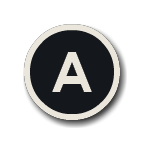
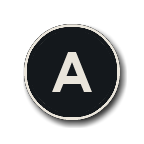
F5: Thinner glyph rim, 0.7 size, prefixes placed by drawn bounds
In game the rim looked thick next to Valheim's, hover-hint glyphs a little
big, and prefix glyphs (which hang below the text line) ran into the slots.
The script keeps Kenney's letters and pressed arms but only the outer 3 px
of its 6 px rim; prefixes are now placed by what TMP draws.

diff --git a/ControllerGlyphFixer/PrefixLabels.cs b/ControllerGlyphFixer/PrefixLabels.cs
@@ -147,11 +147,9 @@ namespace ControllerGlyphFixer
                 // The backing's left edge is flush with the first slot; padding goes inside, around the
                 // text and line (padding outside showed on one side when edges differed by a unit)
                 TextMeshProUGUI text = CreateText(container, style, prefix.Text, color);
-                Vector2 size = text.GetPreferredValues(prefix.Text);
                 float textLeft = bounds.xMin + BackingPadding;
                 float y = side == PrefixSide.Above ? bounds.yMax + AboveGap : bounds.yMin - Gap;
-                Place(text.rectTransform, new Vector2(0f, side == PrefixSide.Above ? 0f : 1f), size,
-                    new Vector2(textLeft, y));
+                Vector2 size = PlaceByDrawnBounds(text, prefix.Text, side, new Vector2(textLeft, y));
                 float textBottom = side == PrefixSide.Above ? y : y - size.y;
                 float backingRight = textLeft + size.x + BackingPadding;
 
@@ -375,6 +373,36 @@ namespace ControllerGlyphFixer
             image.color = color;
             image.raycastTarget = false;
             return image;
+        }
+
+        /// <summary>
+        /// Places a prefix so what TMP draws (not its line box) starts at the corner: its left edge at
+        /// the corner's x, and its bottom (above the slots) or top (below them) at the corner's y.
+        /// </summary>
+        /// <param name="text">The prefix text, already created.</param>
+        /// <param name="value">Its text, for measuring.</param>
+        /// <param name="side">Above or below the slots.</param>
+        /// <param name="corner">Bottom-left (above) or top-left (below) of the drawn prefix, in the parent's space.</param>
+        /// <returns>The drawn size; the line-box size when nothing is drawn.</returns>
+        // Sprites hang below the text line (Valheim's glyphs do too); placed by the line box, the
+        // controller glyph prefixes ran into the slots (in game 2026-11-08)
+        private Vector2 PlaceByDrawnBounds(TextMeshProUGUI text, string value, PrefixSide side, Vector2 corner)
+        {
+            Vector2 size = text.GetPreferredValues(value);
+            Vector2 pivot = new (0f, side == PrefixSide.Above ? 0f : 1f);
+            Place(text.rectTransform, pivot, size, corner);
+
+            text.ForceMeshUpdate();
+            Bounds drawn = text.textBounds;
+            if (drawn.size.x <= 0f || drawn.size.y <= 0f)
+            {
+                return size;
+            }
+
+            // textBounds is relative to the pivot, which sits at the corner
+            float edgeY = side == PrefixSide.Above ? drawn.min.y : drawn.max.y;
+            text.rectTransform.localPosition = new Vector3(corner.x - drawn.min.x, corner.y - edgeY, 0f);
+            return drawn.size;
         }
 
         /// <summary>

diff --git a/ControllerGlyphFixer/ModSpriteAsset.cs b/ControllerGlyphFixer/ModSpriteAsset.cs
@@ -35,9 +35,9 @@ namespace ControllerGlyphFixer
         /// <summary>
         /// Our glyph's height relative to Valheim's whole reference sprite (which has transparent
         /// padding of its own). At 1 our square glyphs looked about 1.4 times Valheim's round ones in
-        /// the hotbar and hover hints (in game 2026-11-08).
+        /// the hotbar and hover hints, and at 0.8 still a little big in hover hints (in game 2026-11-08).
         /// </summary>
-        private const float SizeFactor = 0.8f;
+        private const float SizeFactor = 0.7f;
 
         /// <summary>Valheim sprite whose size and baseline ours copy.</summary>
         private const string ReferenceSprite = "button_a";
